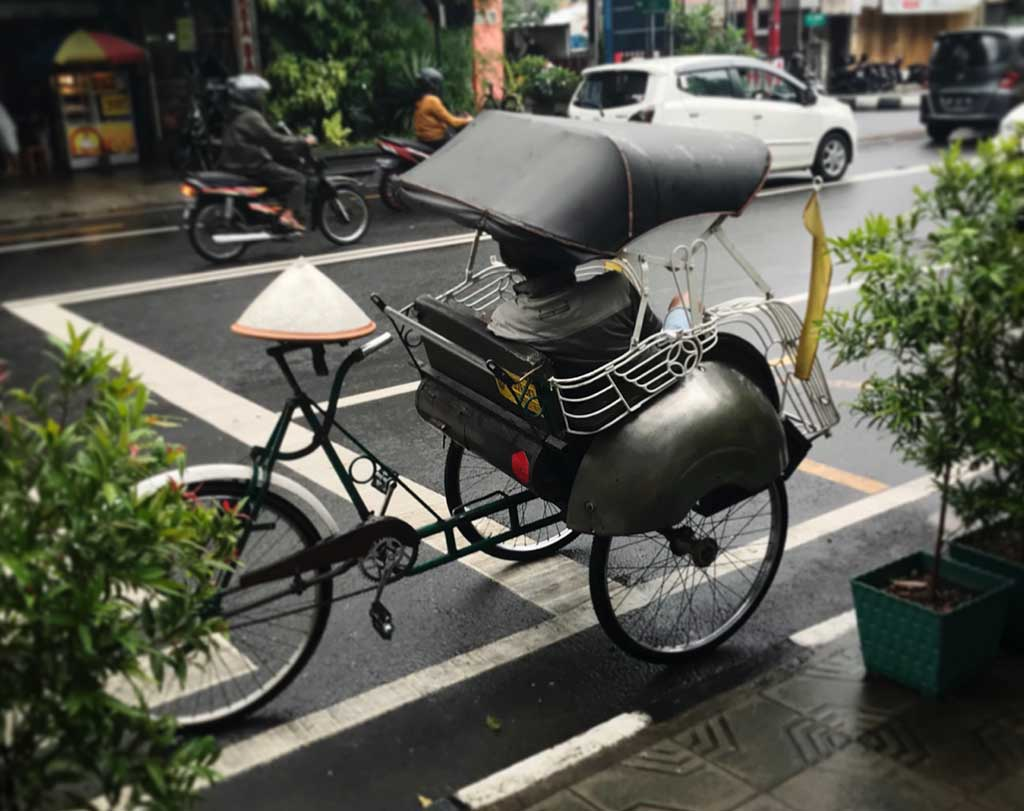
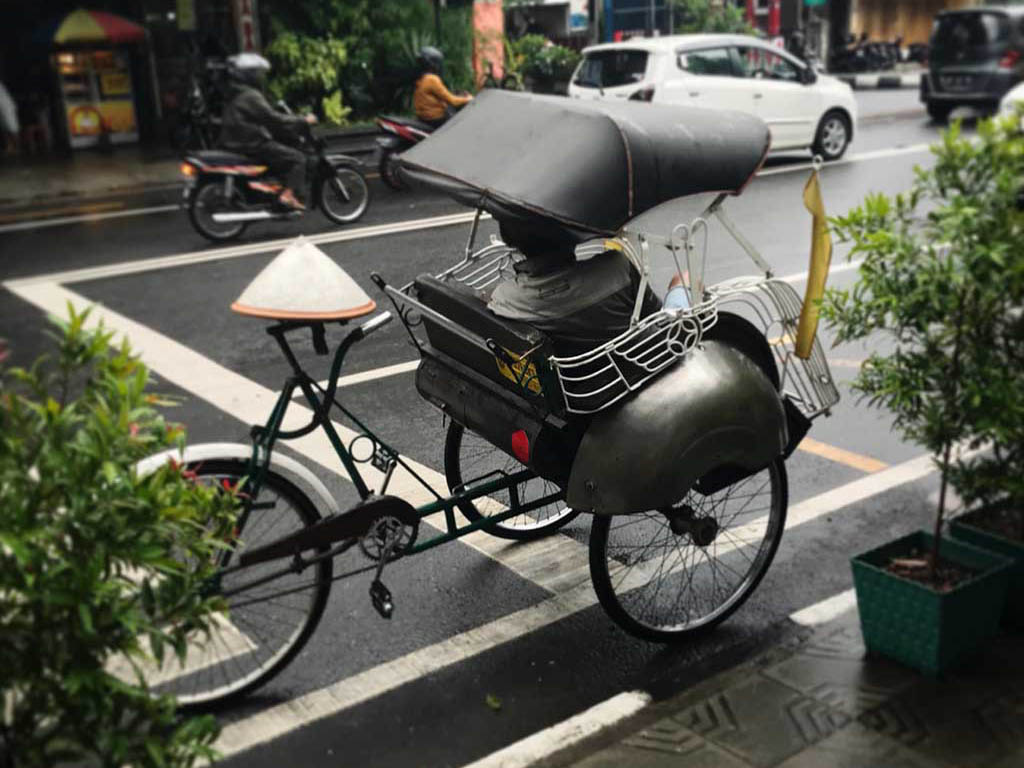
Image opimizations, sitemap, bots

diff --git a/google207ed06e331ab55d.html b/google207ed06e331ab55d.html
@@ -1,0 +1,1 @@
+google-site-verification: google207ed06e331ab55d.html
